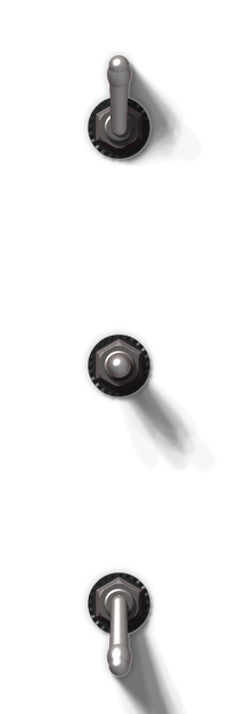
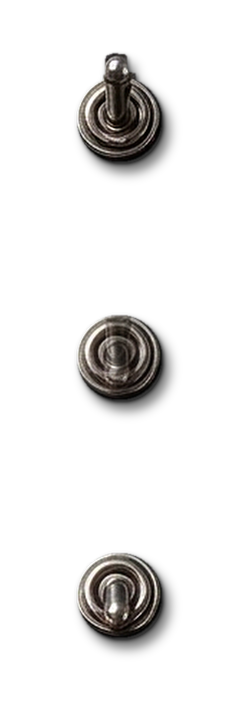
v1.2.0 : inverseur exact de FreakOut, dernières traces effacées (halo des LED retiré de la peinture, ombre sous « octave »)
Claude-Session: https://claude.ai/code/session_01M5BvnLF3ttjyvRV3rNnmVN

Changed region(s): [[0.3235, 0.7703, 0.7647, 1.0], [0.3235, 0.4314, 0.8235, 0.6471], [0.3235, 0.0616, 0.7647, 0.2465]]

diff --git a/tools/make_background.py b/tools/make_background.py
@@ -134,8 +134,32 @@ def rect_mask(r, pad=4.0, rad=10.0):
 # barre de presets du visuel (le plugin la dessine) et son ombre
 red_fill(rect_mask((420.0, 700.0, 400.0, 86.0), pad=0.0), soft=5.0, sigma=50.0)
 # LED du visuel (allumees, avec halo) : remplacees par les LED rendues
+def unglow(c, r_in=135.0, r_base=(135.0, 165.0)):
+    """retire le halo de la LED du visuel sans toucher a la texture : profil radial des basses frequences (par canal,
+    hors inscriptions sombres) compare au niveau de reference de l'anneau exterieur, puis division douce"""
+    global A
+    cx, cy = u2p(*c)
+    R = int(r_base[1] / S0) + 4
+    x0, y0, x1, y1 = int(cx - R), int(cy - R), int(cx + R), int(cy + R)
+    reg = A[y0:y1, x0:x1]
+    yy, xx = np.mgrid[y0:y1, x0:x1].astype(np.float32)
+    rr = np.hypot(xx - cx, yy - cy) * S0                         # en unites
+    ok = (redish2[y0:y1, x0:x1] > 0)
+    low = cv2.GaussianBlur(reg, (0, 0), 6)
+    base = np.array([np.median(low[..., k][ok & (rr > r_base[0]) & (rr < r_base[1])]) for k in range(3)])
+    bins = np.arange(0, r_in + 5, 4.0)
+    prof = np.zeros((len(bins), 3))
+    for i, r0 in enumerate(bins):
+        sel = ok & (rr >= r0) & (rr < r0 + 4.0)
+        prof[i] = np.median(low[sel], 0) if sel.sum() > 20 else base
+    gain = base[None, :] / np.maximum(prof, 1.0)
+    gain = cv2.GaussianBlur(gain.astype(np.float32)[:, None, :], (0, 0), sigmaX=0.1, sigmaY=1.2)[:, 0, :]
+    gi = np.stack([np.interp(rr, bins + 2.0, gain[:, k]) for k in range(3)], -1)
+    w = np.clip((r_in - rr) / 25.0, 0, 1)[..., None]               # retombe a 1 en douceur au bord
+    A[y0:y1, x0:x1] = reg * (1 + (gi - 1) * w)
 for c in (LED_L, LED_R):
-    red_fill((disc(c, 64.0) & (face_in > 0) | disc(c, 20.0)).astype(np.uint8), soft=6.0, sigma=40.0)   # halo compris
+    unglow(c)
+    red_fill(disc(c, 22.0).astype(np.uint8), soft=4.0, sigma=24.0)   # la LED elle-meme
 # footswitchs du visuel et leurs ombres bizarres : effaces (le plugin dessine les footswitchs noirs, enfoncables)
 for c in (FS_L, FS_R):
     core = disc(c, 54.0)
@@ -146,7 +170,11 @@ m = np.zeros((Hs, Ws), np.uint8)
 for (x0u, y0u, x1u, y1u) in ((966, 266, 1066, 306), (982, 296, 1054, 380)):   # ancienne inscription, ancien inverseur + ombre
     p0 = u2p(x0u, y0u); p1 = u2p(x1u, y1u)
     cv2.rectangle(m, (int(p0[0]), int(p0[1])), (int(p1[0]), int(p1[1])), 1, -1)
-red_fill(m, soft=3.0, sigma=30.0)
+m2 = np.zeros((Hs, Ws), np.uint8)                                  # ombre sombre a droite de l'ancienne inscription
+p0 = u2p(1036, 276); p1 = u2p(1132, 396)
+cv2.rectangle(m2, (int(p0[0]), int(p0[1])), (int(p1[0]), int(p1[1])), 1, -1)
+m = np.maximum(m, m2 * (face_in > 0).astype(np.uint8))
+red_fill(m, soft=5.0, sigma=30.0)
 
 # traces sombres a l'exterieur du boitier, sur les cotes (restes d'anciennes pieces) : fond sombre refait
 def side_fill():
@@ -282,53 +310,36 @@ ImageDraw.Draw(lab).text((OCT_LABEL[0] * AS * 2, OCT_LABEL[1] * AS * 2), "octave
 la = cv2.resize(np.asarray(lab, np.float32) / 255.0, (W, H), interpolation=cv2.INTER_AREA)
 img = img * (1 - la[..., None]) + np.array([16.0, 12.0, 12.0]) * la[..., None]
 
-# ------------------------------------------------------------------ 4. inverseur OCTAVE : rendu 3D propre (rondelle crantee, ecrou hexagonal,
-#     fut chrome, levier nickel a bout rond), 3 images avec la MEME lumiere : haut = ON, intermediaire, bas = OFF
+# ------------------------------------------------------------------ 4. inverseur OCTAVE : exactement celui de FreakOut (assets/kit, photo reelle :
+#     bague nickel + levier), detoure sur la bague (centre 97 / 86 px, rayon 49 px) et le levier ; l'ombre du kit (prevue pour une
+#     facade argent) est remplacee par une ombre portee douce sur le rouge, meme lumiere (haut gauche). haut = ON / milieu / bas = OFF
 TOG_S = 110.0
-TK = 1.25                                       # echelle du rendu (unites Crycat -> unites Peachy)
-def toggle3d(pos):
-    c = Canvas(TOG_S, TOG_S, TOG_S / 2, TOG_S / 2 + 4.0)
-    x, y = c.x / TK, c.y / TK
-    r = np.hypot(x, y)
-    c.put((np.full_like(r, 1.0) + 0.25 * np.cos(np.arctan2(y, x) * 24) * (r > 10.0)) * TK, r < 11.5, 4)
-    a_ = np.arctan2(y, x)
-    hx = r * np.cos(((a_ + math.pi / 6) % (math.pi / 3)) - math.pi / 6)
-    nut = np.minimum(4.2, (8.6 - hx) * 3.0); nut = np.minimum(nut, 4.2 - np.clip(r - 7.6, 0, None) * 1.2)
-    c.put((np.clip(nut, 0, None) + 1.0) * TK, (hx < 8.6) & (nut > 0), 1)
-    bush = np.where(r < 5.6, 7.2 - 0.6 * np.clip(r - 4.6, 0, None) ** 2, 0)
-    c.put(bush * TK, r < 5.6, 5)
-    tilt = math.radians(58) * pos
-    ax = np.array([0.0, -math.sin(tilt), math.cos(tilt)])          # pos > 0 : levier vers le haut de l'image
-    Lb = 27.0 if pos != 0 else 20.0
-    p0 = np.array([0.0, 0.0, 7.0])
-    best = np.full_like(r, -1.0)
-    for t in np.linspace(0, 1, 140):
-        cen = p0 + ax * Lb * t
-        rad = 2.9 + 0.9 * t
-        if t > 0.72: rad = max(rad, 4.4 * math.sqrt(max(0.0, 1 - ((t - 0.86) / 0.14) ** 2)))
-        d2 = (x - cen[0]) ** 2 + (y - cen[1]) ** 2
-        zz = cen[2] + np.sqrt(np.clip(rad ** 2 - d2, 0, None))
-        best = np.where(d2 < rad ** 2, np.maximum(best, zz), best)
-    c.put(best * TK, best > 0, 2)
-    vis = soft_shadow(c, samples=16, spread=0.10, max_u=60)
-    visl = np.where(c.mat == 2, 1.0, vis)          # le levier ne s'ombre pas lui-meme (champ de hauteurs : il serait vu plein)
-    n = normals(c)
-    e, rb = env_chrome(n, gloss=0.9)
-    ndl, sp = spec_terms(n, visl, 120)
-    _, sp2 = spec_terms(n, visl, 30)
-    nickel = (0.80 * e * (0.55 + 0.45 * visl) + 40 * ndl + 230 * sp + 40 * sp2)[..., None] * np.array([0.98, 0.97, 0.96]) + rb[..., None] * np.array([1.0, 0.15, 0.15])
-    # lumiere d'appoint douce (studio) : le levier tourne vers le haut garde de la matiere (sinon il parait noir)
-    F = np.array([0.25, 0.55, 0.80]); F /= np.linalg.norm(F)
-    fill = np.clip(n @ F, 0, 1) ** 2 * 95.0
-    nickel = nickel + (fill * (c.mat == 2))[..., None] * np.array([0.96, 0.96, 0.97])
-    dark = (14 + 40 * ndl + 120 * sp)[..., None] * np.array([1.0, 1.0, 1.04])
-    m = c.mat[..., None]
-    col = np.where(m == 4, dark, np.where(m == 1, nickel * 0.92, nickel))
-    sh = cv2.GaussianBlur(panel_shadow(c, vis, amount=0.55), (0, 0), 0.6 * A3.PXU)
-    return finish(c, col, sh, (round(TOG_S * AS), round(TOG_S * AS)))
-frames = [toggle3d(1), toggle3d(0), toggle3d(-1)]
+TOG_K = 0.80                                    # echelle (px du kit, 2 px par unite FreakOut -> unites Peachy)
+def toggle_kit(fn, ly0, ly1):
+    s_ = np.asarray(Image.open(os.path.join(ROOT, 'assets', 'kit', fn)).convert('RGBA')).astype(np.float32)
+    hh, ww = s_.shape[:2]
+    yy, xx = np.mgrid[0:hh, 0:ww].astype(np.float32)
+    cx, cy = 97.0, 86.0
+    rr = np.hypot(xx - cx, yy - cy)
+    lever = (np.abs(xx - cx) < 19) & (yy > ly0) & (yy < ly1)
+    objm = ((rr < 49.0) | lever) & (s_[..., 3] > 128)
+    objm = cv2.morphologyEx(objm.astype(np.uint8), cv2.MORPH_OPEN, np.ones((3, 3), np.uint8))
+    nl, lab_, st, _ = cv2.connectedComponentsWithStats(objm)
+    objm = (lab_ == 1 + int(np.argmax(st[1:, cv2.CC_STAT_AREA]))).astype(np.float32)
+    objm = cv2.GaussianBlur(objm, (0, 0), 0.7)
+    n = round(TOG_S * AS)
+    M = np.float32([[TOG_K, 0, n / 2 - cx * TOG_K], [0, TOG_K, n / 2 - cy * TOG_K]])
+    rgb = cv2.warpAffine(s_[..., :3], M, (n, n), flags=cv2.INTER_LANCZOS4)
+    a = np.clip(cv2.warpAffine(objm, M, (n, n), flags=cv2.INTER_LINEAR), 0, 1)
+    def shift(im, dx, dy): return cv2.warpAffine(im, np.float32([[1, 0, dx], [0, 1, dy]]), (n, n))
+    cast = cv2.GaussianBlur(shift(a, 3.5 * AS, 5.0 * AS), (0, 0), 2.6 * AS) * 0.55
+    contact = cv2.GaussianBlur(shift(a, 0.8 * AS, 1.1 * AS), (0, 0), 1.0 * AS) * 0.5
+    sh = np.clip(cast + contact, 0, 0.8) * (1 - a)
+    alpha = np.clip(a + sh, 0, 1)
+    col = np.where(alpha[..., None] > 1e-4, rgb * (a / np.maximum(alpha, 1e-4))[..., None], 0)
+    return np.dstack([np.clip(col, 0, 255), alpha * 255]).astype(np.float32)
+frames = [toggle_kit('switch_levier_ON.png', 8, 86), toggle_kit('switch_levier_milieu.png', 86, 86), toggle_kit('switch_levier_OFF.png', 86, 86)]
 
-# ------------------------------------------------------------------ 5. sauvegarde du fond, sprite LED allumee, calques d'eclairage
 # ------------------------------------------------------------------ 5. pedale agrandie dans la meme fenetre (zoom autour du centre)
 ZK, ZC = 1.08, (620.0, 459.0)
 def Z(p): return (ZC[0] + (p[0] - ZC[0]) * ZK, ZC[1] + (p[1] - ZC[1]) * ZK)

diff --git a/README.md b/README.md
@@ -55,7 +55,7 @@ Interprétation des potards du haut (non documentée par le fabricant) : MASTER 
 - **Ligne d'état** : réglage de la commande que l'on bouge (potards en %), dans la police manuscrite des inscriptions de la pédale (Shadows Into Light).
 - Potards : seul le repère blanc peint tourne, les reflets du biseau chromé restent fixes (lumière en haut à gauche).
 - Footswitchs **noirs** (écrou hexagonal anodisé, bague moletée, bouton tourné, rendus en 3D avec la lumière du visuel) : bascule dès l'appui, **bouton enfoncé tant qu'on appuie** (il descend, s'assombrit, son ombre portée se raccourcit). LED **blanches** (bague chromée, lentille en dôme) en fondu, halo blanc et façade éclairée autour.
-- Inverseur OCTAVE (aligné sur le potard TONE) : rendu 3D (rondelle crantée, écrou hexagonal, levier nickel à bout rond), 3 images avec la même lumière (haut = on), image intermédiaire pendant la bascule, molette possible.
+- Inverseur OCTAVE (aligné sur le potard TONE) : exactement celui de FreakOut (photo du kit Studio Wiga : bague nickel + levier, haut = on), détouré, ombre douce sur le rouge, image intermédiaire pendant la bascule, molette possible.
 - Pédale agrandie de 8 % dans la même fenêtre (v1.2.0).
 - Jacks du kit Studio Wiga **en haut du boîtier** comme sur l'original (OUT à gauche, IN à droite), réduits.
 - **Anti-gel v2** : rendu logiciel forcé sous Windows, fenêtre opaque, timer 30 Hz qui ne redessine que ce qui change,
